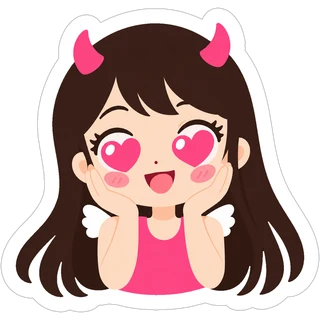
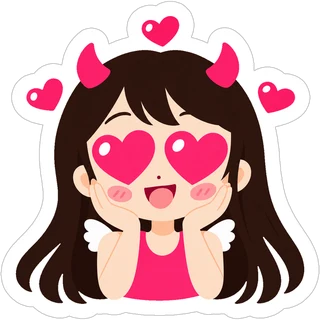
속도 개선(챗봇 캐릭터 그리기·빛줄기·흐림 효과 가볍게), 방명록 글쓴이 색, 하트눈 교체·눈물 스티커 추가
Claude-Session: https://claude.ai/code/session_01GAFtkmkAShqGxSHJr2soeh

diff --git a/index.html b/index.html
@@ -3,7 +3,7 @@
 <head>
 <meta charset="utf-8">
 <meta http-equiv="Cache-Control" content="no-cache, no-store, must-revalidate"><meta http-equiv="Pragma" content="no-cache"><meta http-equiv="Expires" content="0">
-<script>(function(){var B="1793545436";fetch("version.json?t="+Date.now(),{cache:"no-store"}).then(function(r){return r.json()}).then(function(j){if(j&&j.v&&j.v!==B){var k="yr_rl_"+j.v;try{if(sessionStorage.getItem(k))return;sessionStorage.setItem(k,"1")}catch(e){}var u=new URL(location.href);u.searchParams.set("v",j.v);location.replace(u.toString())}}).catch(function(){})})();</script>
+<script>(function(){var B="1793545527";fetch("version.json?t="+Date.now(),{cache:"no-store"}).then(function(r){return r.json()}).then(function(j){if(j&&j.v&&j.v!==B){var k="yr_rl_"+j.v;try{if(sessionStorage.getItem(k))return;sessionStorage.setItem(k,"1")}catch(e){}var u=new URL(location.href);u.searchParams.set("v",j.v);location.replace(u.toString())}}).catch(function(){})})();</script>
 <meta name="color-scheme" content="light only">
 <meta name="viewport" content="width=device-width,initial-scale=1,viewport-fit=cover">
 <meta name="description" content="초등교사 김예람(예람쌤) — AI 영상·교육 콘텐츠 제작 연수, 영상·웹앱 콘텐츠, 연수 교안과 수업 자료">
@@ -441,7 +441,7 @@ body.editing .page .cards .card,body.editing #ytBody .ytc,body.editing .press-l 
 .st-ban{border:1px solid #F0C9CF;background:#fff;color:#D23B4E;border-radius:8px;padding:5px 11px;font:inherit;font-size:12.5px;font-weight:800;cursor:pointer;white-space:nowrap}
 .st-ban.on{background:#FDECEE}
 @media (max-width:760px){ .sx{grid-template-columns:1fr;grid-template-rows:auto minmax(0,1fr);height:calc(100vh - 24px)} .sx-nav{display:flex;gap:4px;overflow-x:auto;padding:10px;border-right:0;border-bottom:1px solid #F0E3E9} .sx-brand,.sx-g{display:none} .sx-i{width:auto;white-space:nowrap;flex:none} .sx-hd,.sx-body{padding-left:16px;padding-right:16px} }
-.fz{position:fixed;left:clamp(10px,1.5vw,28px);bottom:22px;z-index:44;display:none;align-items:center;gap:8px;padding:7px 12px;border-radius:99px;background:rgba(255,255,255,.95);box-shadow:0 0 0 1px var(--line),0 6px 18px rgba(74,42,34,.12);backdrop-filter:blur(6px)}
+.fz{position:fixed;left:clamp(10px,1.5vw,28px);bottom:22px;z-index:44;display:none;align-items:center;gap:8px;padding:7px 12px;border-radius:99px;background:rgba(255,255,255,.95);box-shadow:0 0 0 1px var(--line),0 6px 18px rgba(74,42,34,.12)}
 body:not(.is-home) .fz{display:flex}
 .fz-b{border:0;background:none;padding:0 2px;font:inherit;font-weight:800;font-size:13px;color:var(--ink-soft);cursor:pointer;line-height:1}.fz-b.big{font-size:19px}
 .fz-b:hover{color:var(--pink-deep)}
@@ -755,8 +755,8 @@ body.editing .page .cards .card{cursor:grab;outline:1.5px dashed var(--pink-ligh
 button.card{font:inherit;text-align:left;cursor:pointer;width:100%;padding:0;border:0;color:inherit}
 /* 카드 썸네일: 은은한 빛 지나감 + 반짝이 */
 .page .cards .card .thumb{position:relative;overflow:hidden}
-.page .cards .card .thumb::after{content:"";position:absolute;inset:-20% auto -20% -60%;width:45%;z-index:2;pointer-events:none;background:linear-gradient(105deg,rgba(255,150,195,0) 0%,rgba(255,150,195,.38) 32%,rgba(255,255,255,.95) 50%,rgba(255,150,195,.38) 68%,rgba(255,150,195,0) 100%);mix-blend-mode:normal;filter:blur(1px);transform:skewX(-18deg);animation:th-shine 4.5s ease-in-out infinite;animation-delay:calc(var(--i,0) * .18s + .15s)}
-@keyframes th-shine{0%{left:-60%}22%,100%{left:130%}}
+.page .cards .card .thumb::after{content:"";position:absolute;inset:-20% auto -20% 0;width:45%;will-change:transform;transform:translateX(-140%) skewX(-18deg);z-index:2;pointer-events:none;background:linear-gradient(105deg,rgba(255,150,195,0) 0%,rgba(255,150,195,.38) 32%,rgba(255,255,255,.95) 50%,rgba(255,150,195,.38) 68%,rgba(255,150,195,0) 100%);animation:th-shine 4.5s ease-in-out infinite;animation-delay:calc(var(--i,0) * .18s + .15s)}
+@keyframes th-shine{0%{transform:translateX(-140%) skewX(-18deg)}22%,100%{transform:translateX(300%) skewX(-18deg)}}
 @keyframes th-twinkle{0%,100%{opacity:0;transform:scale(.4) rotate(0)}45%{opacity:1;transform:scale(1) rotate(20deg)}70%{opacity:.2;transform:scale(.7) rotate(40deg)}}
 .page .cards .card{transition:transform .25s cubic-bezier(.3,1.4,.5,1),box-shadow .25s}
 @media (hover:hover){.page .cards .card:hover{box-shadow:0 0 0 1.5px var(--pink),0 10px 26px rgba(255,71,145,.22)!important}.page .cards .card:hover .thumb::after{animation-duration:1.4s;animation-delay:0s}}
@@ -784,7 +784,8 @@ html body:not(.is-home) .page-head + .sec-hd,html body:not(.is-home) .page-head 
 .gb-chip{align-self:flex-start;font-size:11.5px;font-weight:800;color:var(--pink-deep);background:rgba(255,255,255,.8);border-radius:99px;padding:2px 9px;margin-bottom:8px}
 .gb-txt{flex:1;margin:0;font-family:var(--gbf);font-size:23px;line-height:1.35;white-space:pre-wrap;word-break:break-word}
 .gb-by{display:flex;justify-content:space-between;align-items:baseline;gap:8px;margin-top:12px;font-size:12px;color:rgba(90,42,51,.55)}
-.gb-by b{font-family:var(--gbf);font-size:20px;font-weight:normal;color:var(--ink2)}
+.gb-by b{font-family:var(--gbf);font-size:20px;font-weight:normal;color:#D6306F}
+.gb-by b::before{content:'— ';opacity:.6}
 /* 쓰기 */
 .gb-write{display:grid;grid-template-columns:280px minmax(0,1fr);gap:36px;align-items:start;max-width:860px;margin:18px auto 40px;padding:28px;border-radius:24px;background:#fff;box-shadow:0 0 0 1px var(--line)}
 .gb-pvw{position:sticky;top:20px}
@@ -1220,7 +1221,7 @@ html .bl-grid{grid-template-columns:repeat(5,minmax(0,1fr))!important}
 #askBtn{display:none}
 body:not(.is-home) #askBtn{display:block;position:fixed;right:clamp(8px,1.5vw,28px);bottom:24px;z-index:45;width:150px;height:190px;border:0;background:none;padding:0;cursor:pointer}
 body:not(.is-home) #askBtn #sideCv{display:block!important;position:absolute!important;inset:auto 0 0 auto!important;height:150px!important;width:auto!important;top:auto!important;right:0!important;bottom:0!important;left:auto!important;transition:transform .25s cubic-bezier(.3,1.6,.5,1)}
-body:not(.is-home) #askBtn #sideCv{filter:drop-shadow(2px 0 0 #fff) drop-shadow(-2px 0 0 #fff) drop-shadow(0 2px 0 #fff) drop-shadow(0 -2px 0 #fff) drop-shadow(0 4px 8px rgba(74,42,34,.2))}
+body:not(.is-home) #askBtn #sideCv{filter:drop-shadow(2px 0 0 #fff) drop-shadow(-2px 0 0 #fff) drop-shadow(0 2px 0 #fff) drop-shadow(0 -2px 0 #fff)}
 body:not(.is-home) #askBtn:hover #sideCv{transform:translateY(-4px) scale(1.04)}
 .ask-x{position:absolute;left:6px;top:6px;z-index:2;width:24px;height:24px;border-radius:50%;background:#fff;color:var(--ink-soft);font-size:11px;font-weight:800;line-height:24px;text-align:center;box-shadow:0 0 0 1px var(--line),0 2px 6px rgba(74,42,34,.15);cursor:pointer;opacity:.85}
 .ask-x:hover{opacity:1;color:var(--pink-deep)}
@@ -1292,7 +1293,7 @@ html,body{background-color:#FFFAFC}
  html body:not(.is-home) .bl-nav.prev{left:-6px!important}html body:not(.is-home) .bl-nav.next{right:-6px!important}
  html body:not(.is-home) .ab-sns a{display:flex!important;flex-direction:column!important;align-items:center!important;min-width:0}
  html body:not(.is-home) .ab-sns a b,html body:not(.is-home) .ab-sns a .sb{align-self:center!important;text-align:center;margin:0!important}
- html body:not(.is-home) #askBtn #sideCv{filter:drop-shadow(1.5px 0 0 #fff) drop-shadow(-1.5px 0 0 #fff) drop-shadow(0 1.5px 0 #fff) drop-shadow(0 -1.5px 0 #fff) drop-shadow(0 3px 6px rgba(74,42,34,.22))!important}
+ html body:not(.is-home) #askBtn #sideCv{filter:drop-shadow(1.5px 0 0 #fff) drop-shadow(-1.5px 0 0 #fff) drop-shadow(0 1.5px 0 #fff) drop-shadow(0 -1.5px 0 #fff)!important}
 }
 </style>
 
@@ -1936,8 +1937,8 @@ const POSE_OF={about:'career',promo:'promo',video:'video',webapp:'webapp',train:
 let sidePage=null, sideWant=null, sideCur=null, sPh='in', sF=0, sLast=0, sUntil=0, sAct=null;
 function sideStart(id){ const p=POSE_OF[id]; if(!p||!META) return; sidePage=sideWant=sideCur='menu_'+p; sPh='in'; sF=0; sLast=performance.now(); loadSet(sideCur); }
 let sideDrawn=''; function drawSide(n,i){ const s=SETS[n]; if(!s||!s.ready) return false; s.used=performance.now(); i=Math.max(0,Math.min(s.count-1,Math.round(i))); const c=i%s.cols, r=(i/s.cols)|0; if(sideDrawn===n+i) return true; sideDrawn=n+i;
-  const x0=300, x1=1240, W=x1-x0; if(sc.width!==W||sc.height!==META.box[3]){ sc.width=W; sc.height=META.box[3]; }
-  sx2.clearRect(0,0,sc.width,sc.height); sx2.drawImage(s.img,c*s.cw,r*s.ch,s.cw,s.ch,s.x-x0,0,s.w,META.box[3]); return true; }
+  const x0=300, x1=1240, k=Math.min(1,Math.max(.12,((sc.clientHeight||160)*Math.min(2,devicePixelRatio||1))/META.box[3])), W=Math.round((x1-x0)*k), H=Math.round(META.box[3]*k); if(sc.width!==W||sc.height!==H){ sc.width=W; sc.height=H; sx2.imageSmoothingQuality='high'; }
+  sx2.clearRect(0,0,W,H); sx2.drawImage(s.img,c*s.cw,r*s.ch,s.cw,s.ch,(s.x-x0)*k,0,s.w*k,H); return true; }
 document.querySelectorAll('.menu a').forEach(a=>{
   const p=POSE_OF[a.dataset.go];
   a.addEventListener('pointerenter',()=>{ if(!isHome()&&p){ sideWant='menu_'+p; loadSet(sideWant); } });
@@ -2162,7 +2163,7 @@ document.addEventListener('click',e=>{ const c=e.target.closest('#webapp .cards 
  },true);
 })();
 </script><script>(function(){
- const KINDS=['자유','수강 후기'], NC=6, STK=['heart','thumb','thanks','clap','cheer','fighting','love','wow','idea','coffee','sleepy']; let stk='';
+ const KINDS=['자유','수강 후기'], NC=6, STK=['heart','thumb','thanks','clap','cheer','fighting','love','cry','wow','idea','coffee','sleepy']; let stk='';
  const $g=id=>document.getElementById(id), form=$g('gbForm'); if(!form) return;
  if(!document.getElementById('gbFont')){ const st=document.createElement('style'); st.id='gbFont'; st.textContent="@font-face{font-family:'OngleipEoyeonce';src:url('https://cdn.jsdelivr.net/gh/projectnoonnu/noonfonts_2105@1.1/Uiyeun.woff') format('woff');font-weight:normal;font-display:swap}"; document.head.appendChild(st); }
  const e=x=>String(x??'').replace(/[&<>"]/g,c=>({'&':'&amp;','<':'&lt;','>':'&gt;','"':'&quot;'}[c]));
